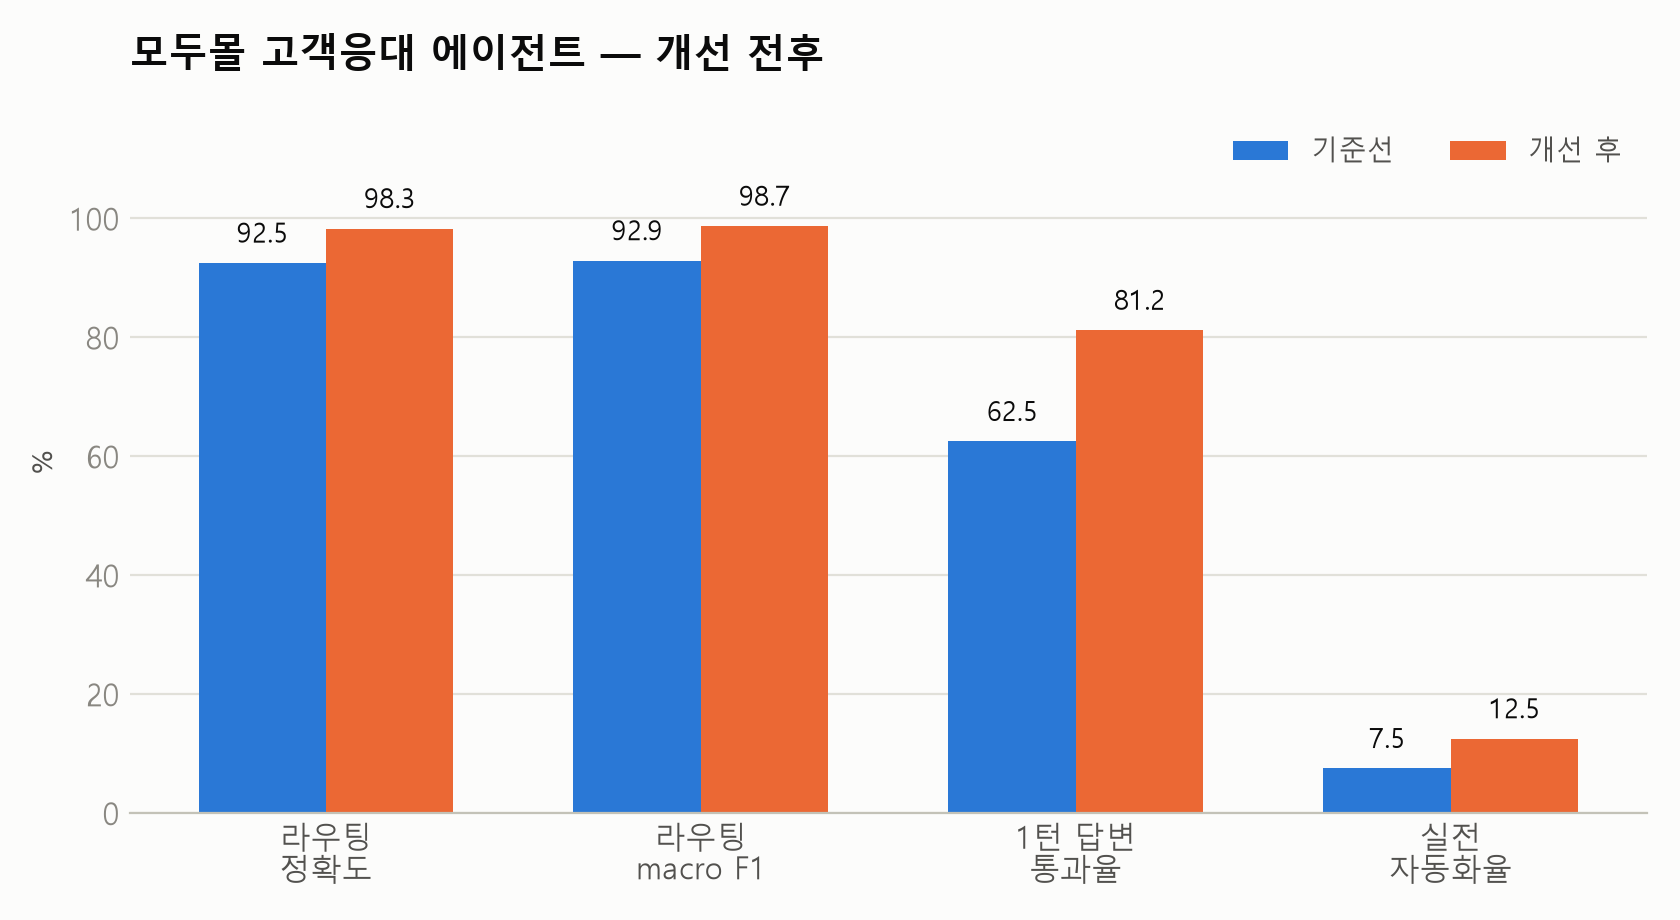
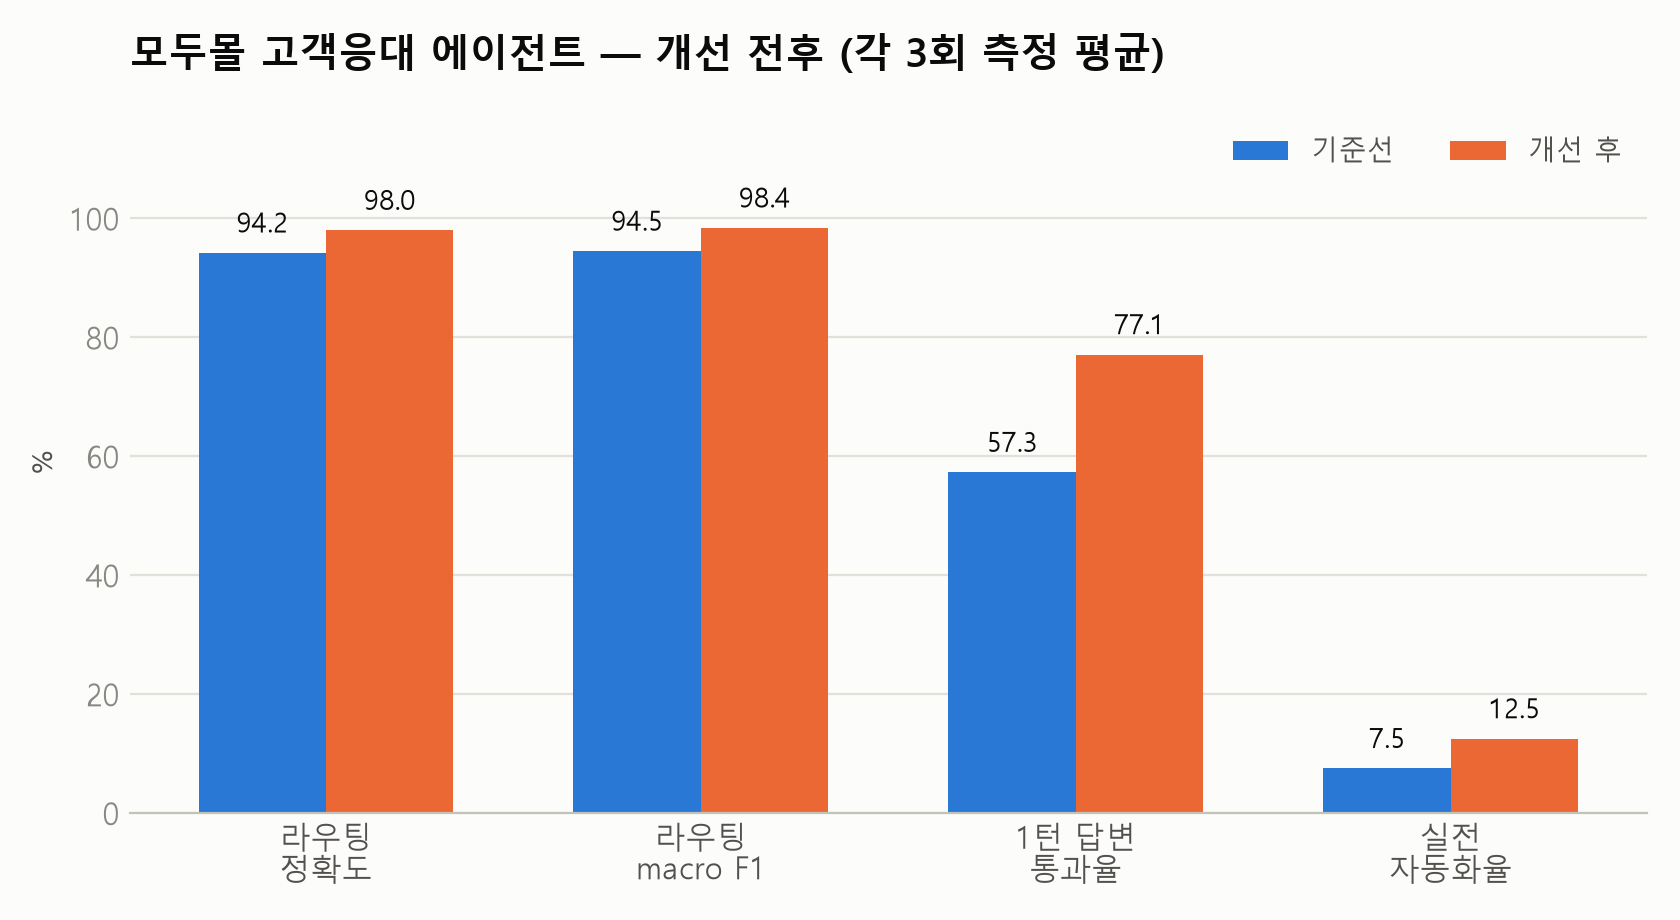
측정을 3회 평균으로 정정하고, 1턴 지표를 깎던 지시를 되돌림
단일 측정으로 성능을 보고하고 있었다. 같은 입력도 ±9%p 흔들린다는 것을
멀티턴 실험에서 확인한 뒤, 기준선과 최종을 각각 3회씩 다시 쟀다.

- ① 0.942 / F1 0.945 → 0.980 / F1 0.984 (이전 보고 0.925/0.929 → 0.983/0.987)
- ② 57.3% → 77.1% (이전 보고 62.5% → 81.2%)
- 다시 잰 기준선이 강의 공표값(0.94 · 0.945 · 56%)과 일치한다

멀티턴 2건을 고치려 ANSWER_RULES 3·7단계에 넣은 지시(가격 조회, 불리한 상태의
사유·예외 안내)가 1턴 지표를 8%p 깎는 것을 확인해 되돌렸다. 두 그룹의 측정
범위가 겹치지 않았고(68.8% vs 77.1%) 멀티턴 점수도 나아지지 않았다.

발표용 슬라이드(make_slide.py)와 차트를 정정된 수치로 다시 생성했다.

diff --git a/make_slide.py b/make_slide.py
@@ -1,0 +1,134 @@
+# -*- coding: utf-8 -*-
+"""팀 공유용 발표 슬라이드 1장을 만든다.  `python make_slide.py`
+
+슬라이드는 읽는 것이 아니라 훑는 것이므로 한 항목당 한 줄로 끊는다.
+상세 근거는 아티팩트·노션 리포트가 담당한다.
+"""
+from pathlib import Path
+
+from pptx import Presentation
+from pptx.dml.color import RGBColor
+from pptx.enum.text import PP_ALIGN, MSO_ANCHOR
+from pptx.util import Inches, Pt
+
+OUT = Path(__file__).parent / "발표자료_모두몰에이전트.pptx"
+
+FONT = "맑은 고딕"
+INK = RGBColor(0x0B, 0x0B, 0x0B)
+INK2 = RGBColor(0x52, 0x51, 0x4E)
+MUTED = RGBColor(0x89, 0x87, 0x81)
+SURFACE = RGBColor(0xFC, 0xFC, 0xFB)
+BAND = RGBColor(0xF0, 0xEF, 0xEC)
+BLUE = RGBColor(0x2A, 0x78, 0xD6)
+ORANGE = RGBColor(0xEB, 0x68, 0x34)
+AQUA = RGBColor(0x1B, 0xAF, 0x7A)
+WHITE = RGBColor(0xFF, 0xFF, 0xFF)
+
+
+def para(tf, text, size=12, bold=False, color=INK2, space_after=6):
+    first = not tf.paragraphs[0].runs and not tf.paragraphs[0].text
+    p = tf.paragraphs[0] if first else tf.add_paragraph()
+    p.text = text
+    p.space_after = Pt(space_after)
+    for r in p.runs:
+        r.font.name, r.font.size, r.font.bold, r.font.color.rgb = FONT, Pt(size), bold, color
+    return p
+
+
+def item(tf, head, tail, color=INK):
+    """한 줄짜리 항목: 굵은 제목 + 얇은 한 줄 설명."""
+    para(tf, head, size=13, bold=True, color=color, space_after=2)
+    para(tf, tail, size=11, color=MUTED, space_after=14)
+
+
+def column(slide, left, top, width, height, title, color):
+    head = slide.shapes.add_textbox(Inches(left), Inches(top), Inches(width), Inches(0.46))
+    head.fill.solid(); head.fill.fore_color.rgb = color
+    head.line.fill.background()
+    tf = head.text_frame
+    tf.margin_left, tf.margin_top, tf.margin_bottom = Inches(0.15), 0, 0
+    tf.vertical_anchor = MSO_ANCHOR.MIDDLE
+    para(tf, title, size=14, bold=True, color=WHITE, space_after=0)
+
+    body = slide.shapes.add_textbox(Inches(left), Inches(top + 0.62),
+                                    Inches(width), Inches(height - 0.62))
+    b = body.text_frame
+    b.word_wrap = True
+    b.margin_left = Inches(0.06)
+    return b
+
+
+def main():
+    prs = Presentation()
+    prs.slide_width, prs.slide_height = Inches(13.333), Inches(7.5)
+    slide = prs.slides.add_slide(prs.slide_layouts[6])
+    slide.background.fill.solid()
+    slide.background.fill.fore_color.rgb = SURFACE
+
+    # ── 제목 ────────────────────────────────────────────────
+    t = slide.shapes.add_textbox(Inches(0.5), Inches(0.38), Inches(12.4), Inches(0.55)).text_frame
+    para(t, "모두몰 고객응대 에이전트 — 성능 개선", size=26, bold=True, color=INK, space_after=0)
+
+    s = slide.shapes.add_textbox(Inches(0.52), Inches(0.96), Inches(12.4), Inches(0.35)).text_frame
+    para(s, "실패 사례를 하나씩 읽고 고침 · 판단 기준은 전부 매뉴얼에서 인용 · 평가 기준(evaluate.py)은 미수정",
+         size=12, color=MUTED, space_after=0)
+
+    W, H, TOP = 3.9, 5.5, 1.6
+
+    # ── ① 주요 개선점 ───────────────────────────────────────
+    b = column(slide, 0.5, TOP, W, H, "①  주요 개선점", BLUE)
+    item(b, "라우팅 경계 규칙", "매뉴얼 조항을 그대로 인용해 예시화 (§1.1 · §2.4 · §5.4)")
+    item(b, "조회 절차화", "세부 속성·재입고·반품 기간을 빠뜨리지 않게")
+    item(b, "상품 검색 재설계", "부분 문자열 동점으로 엉뚱한 상품을 고르던 문제 해소")
+    item(b, "오안내 3건 수정", "A/S 안내 · 반복 문의 이관 · 미확정을 확정으로 단정", color=ORANGE)
+    para(b, "→ 셋 다 채점에 안 잡히던 버그", size=11, color=MUTED, space_after=0)
+
+    # ── ② 지표 변화 ────────────────────────────────────────
+    b = column(slide, 4.85, TOP, W, H, "②  지표 변화", AQUA)
+    rows = [("지표", "기준선", "최종"),
+            ("의도 분류 정확도", "0.942", "0.980"),
+            ("의도 분류 macro F1", "0.945", "0.984"),
+            ("1턴 답변 통과율", "57.3%", "77.1%"),
+            ("실전 자동화율", "7.5%", "12.5%")]
+    tbl = slide.shapes.add_table(len(rows), 3, Inches(4.85), Inches(TOP + 0.7),
+                                 Inches(W), Inches(2.0)).table
+    tbl.columns[0].width, tbl.columns[1].width, tbl.columns[2].width = \
+        Inches(1.9), Inches(1.0), Inches(1.0)
+    for i, row in enumerate(rows):
+        tbl.rows[i].height = Inches(0.4)
+        for j, val in enumerate(row):
+            cell = tbl.cell(i, j)
+            cell.text = val
+            cell.fill.solid()
+            cell.fill.fore_color.rgb = BAND if i == 0 else SURFACE
+            cell.vertical_anchor = MSO_ANCHOR.MIDDLE
+            cell.margin_left = cell.margin_right = Inches(0.07)
+            p = cell.text_frame.paragraphs[0]
+            p.alignment = PP_ALIGN.LEFT if j == 0 else PP_ALIGN.CENTER
+            for r in p.runs:
+                r.font.name, r.font.size = FONT, Pt(11.5)
+                r.font.bold = (i == 0) or (j == 2 and i > 0)
+                r.font.color.rgb = INK if i == 0 else (AQUA if j == 2 else INK2)
+
+    note = slide.shapes.add_textbox(Inches(4.85), Inches(TOP + 2.95),
+                                    Inches(W), Inches(2.4)).text_frame
+    note.word_wrap = True
+    item(note, "라우팅 오분류 7건 → 2건", "경계 예시 3~4개만으로, 코드 수정 없이")
+    item(note, "비용 +37%", "1회 호출 5,024 → 6,881 토큰 · 1만 건 ≈ 57,800원")
+    item(note, "모든 수치는 3회 평균", "같은 입력도 ±9%p 흔들려 단일 측정은 쓰지 않음")
+
+    # ── ③ 개선하지 못한 점 ──────────────────────────────────
+    b = column(slide, 9.2, TOP, W, H, "③  개선하지 못한 점 / 이유", ORANGE)
+    item(b, "남은 실패 6건 = 채점기 한계", "동의어·띄어쓰기·표기 차이, 도구 부르면 무조건 ANSWER 판정")
+    item(b, "데이터 스키마 한계", "옵션별 재고·수령일이 조회에 없어 계산 불가")
+    item(b, "자동화율 12.5%의 벽", "문의 77.5%가 상품명 자체를 말하지 않음")
+    item(b, "멀티턴 2차 턴이 가장 약함", "1차 대비 약 30%p 낮음 · 한 번도 재지 않던 구간")
+    para(b, "→ 재는 곳만 좋아지고, 안 재는 곳은 조용히 틀린 채로 남는다",
+         size=11, bold=True, color=INK2, space_after=0)
+
+    prs.save(OUT)
+    print("생성:", OUT)
+
+
+if __name__ == "__main__":
+    main()

diff --git a/prompts.py b/prompts.py
@@ -96,10 +96,9 @@ ANSWER_RULES = """\
        C(링크) 중 어느 상품을 말씀하시는지 알려주시겠어요?"). url은 candidates 에
        있는 값 그대로만 쓰고 절대 새로 만들어내지 않는다. 고객은 상품 ID를
        모르므로 번호를 물어보지 않는다.
-3단계. 상품이 특정된 뒤, 질문이 가격·소재·원산지·실측·보증서·재고·재입고 여부처럼
+3단계. 상품이 특정된 뒤, 질문이 소재·원산지·실측·보증서·재고·재입고 여부처럼
        상품마다 다른 세부 속성을 묻는 것이면 get_product_detail 을(재입고를
-       묻는 것이면 get_restock_info 도 함께) 반드시 부른다. 특히 가격은
-       get_product_options 에 없고 get_product_detail 에만 있다. get_product_options
+       묻는 것이면 get_restock_info 도 함께) 반드시 부른다. get_product_options
        처럼 다른 도구를 이미 불렀더라도, 그 도구가 다루지 않는 속성을 물었다면
        추가로 불러야 한다 — "이미 조회했으니 충분하다"고 넘기지 않는다.
        get_product_detail 의 stock 은 전체 재고일 뿐 색상·사이즈별 재고가 아니다.
@@ -121,11 +120,7 @@ ANSWER_RULES = """\
        인용한다. 예: "반품비는 고객 부담입니다"로 끝내지 말고 "신축성 소재라
        실측 오차가 생길 수 있어 반품비는 고객 부담입니다"처럼 왜 그런지 붙인다.
        질문이 그 값을 직접 묻지 않았어도, 조회 결과에 이미 있고 결론을 뒷받침한다면
-       포함한다. 또한 조회 결과가 지연·기간 초과처럼 고객에게 불리한 상태를 보이면
-       매뉴얼에 적힌 그 상태의 **사유와 예외**도 함께 안내한다. 예: 배송이 지연이면
-       지연 사유(4.4 — 택배사 물량 집중, 연휴, 분리 출고)를 사과와 함께 밝히고,
-       반품 기간이 지났으면 "하자·오배송은 기간과 무관하게 접수 가능"(5.1)하다는
-       예외를 반드시 덧붙인다. 거절만 하고 끝내지 않는다.
+       포함한다.
 8단계. 상품·주문이 이미 특정돼 있어도, 정확한 안내를 위해 조회로는 알 수 없고
        고객만 아는 사실(예: 미개봉 여부, 이미 주문을 완료했는지)이 남아 있으면
        아는 값은 먼저 안내하되 "~하셨을까요?", "~알려주시겠어요?"처럼 실제

diff --git a/make_charts.py b/make_charts.py
@@ -55,8 +55,8 @@ def style(ax, ylabel=None, ymax=None):
 # ── 차트 A. 개선 요약 ────────────────────────────────────────────────
 def chart_improvement():
     labels = ["라우팅\n정확도", "라우팅\nmacro F1", "1턴 답변\n통과율", "실전\n자동화율"]
-    before = [92.5, 92.9, 62.5, 7.5]
-    after = [98.3, 98.7, 81.2, 12.5]
+    before = [94.2, 94.5, 57.3, 7.5]
+    after = [98.0, 98.4, 77.1, 12.5]
 
     fig, ax = plt.subplots(figsize=(8.4, 4.6))
     xs = range(len(labels))
@@ -73,7 +73,7 @@ def chart_improvement():
     ax.set_xticks(list(xs))
     ax.set_xticklabels(labels, color=INK2)
     style(ax, ylabel="%", ymax=118)
-    ax.set_title("모두몰 고객응대 에이전트 — 개선 전후", fontsize=14, color=INK,
+    ax.set_title("모두몰 고객응대 에이전트 — 개선 전후 (각 3회 측정 평균)", fontsize=14, color=INK,
                  pad=16, loc="left", fontweight="bold")
     ax.legend(frameon=False, loc="upper right", ncols=2, fontsize=10, labelcolor=INK2)
     fig.tight_layout()

diff --git a/README.md b/README.md
@@ -78,16 +78,26 @@ python chat.py              # 직접 말 걸어 본다
 
 ## 결과
 
+모든 지표는 **기준선·최종 각각 3회 측정 평균**입니다. 같은 입력도 ±9%p 흔들리므로 단일 측정은
+쓰지 않았습니다.
+
 | 지표 | 기준선 | 최종 |
 | --- | --- | --- |
-| ① 의도 분류 정확도 / macro F1 | 0.925 / 0.929 | **0.983 / 0.987** (오분류 9→2건) |
-| ② 1턴 답변 통과율 | 62.5% (20/32) | **81.2% (26/32)** |
+| ① 의도 분류 정확도 | 0.942 | **0.980** (오분류 7→2건) |
+| ① macro F1 | 0.945 | **0.984** |
+| ② 1턴 답변 통과율 | 57.3% | **77.1%** |
 | 실제 고객 문의 40건 자동화율 | 7.5% | **12.5%** |
-| 멀티턴 전체 통과율 (56턴 중 53턴 채점) | 미측정 | 71.7% (1차 81.2% / **2차 52.6%**) |
-| 1회 호출 입력 토큰 | 5,024 | 6,881 (+37%) |
+| 멀티턴 전체 통과율 (56턴 중 53턴 채점) | 미측정 | 약 68% (2차 턴이 1차보다 약 30%p 낮음) |
+| 1회 호출 입력 토큰 | 5,024 | 약 6,600 |
 
-숫자는 실행마다 ±9%p 흔들립니다(동일 입력의 1차 턴이 71.9~81.2%로 갈리는 것으로 역산). 그래서
-케이스 단위로 3~5회 반복 실행해 확인한 항목만 "고쳤다"고 적었습니다.
+관측 범위 — ① 기준선 0.942(3회 동일) / 최종 0.975~0.983, ② 기준선 53.1~59.4% / 최종
+75.0~78.1%. 두 지표 모두 기준선과 최종의 범위가 겹치지 않습니다. 다시 잰 기준선은 강의
+공표값(0.94 · macro F1 0.945 · 56%)과 일치합니다.
+
+**되돌린 변경이 하나 있습니다.** 멀티턴 2건(지연 사유·가격 누락)을 고치려 `ANSWER_RULES`
+3·7단계에 넣은 지시가 1턴 지표를 8%p 깎았습니다(68.8% vs 77.1%, 두 그룹의 측정 범위가 겹치지
+않음). 멀티턴 점수도 나아지지 않아 되돌렸습니다 — 지시 하나가 어디까지 번지는지는 재봐야
+압니다.
 
 ## 어떤 정책 조항이 어떤 코드가 되었는가
 
